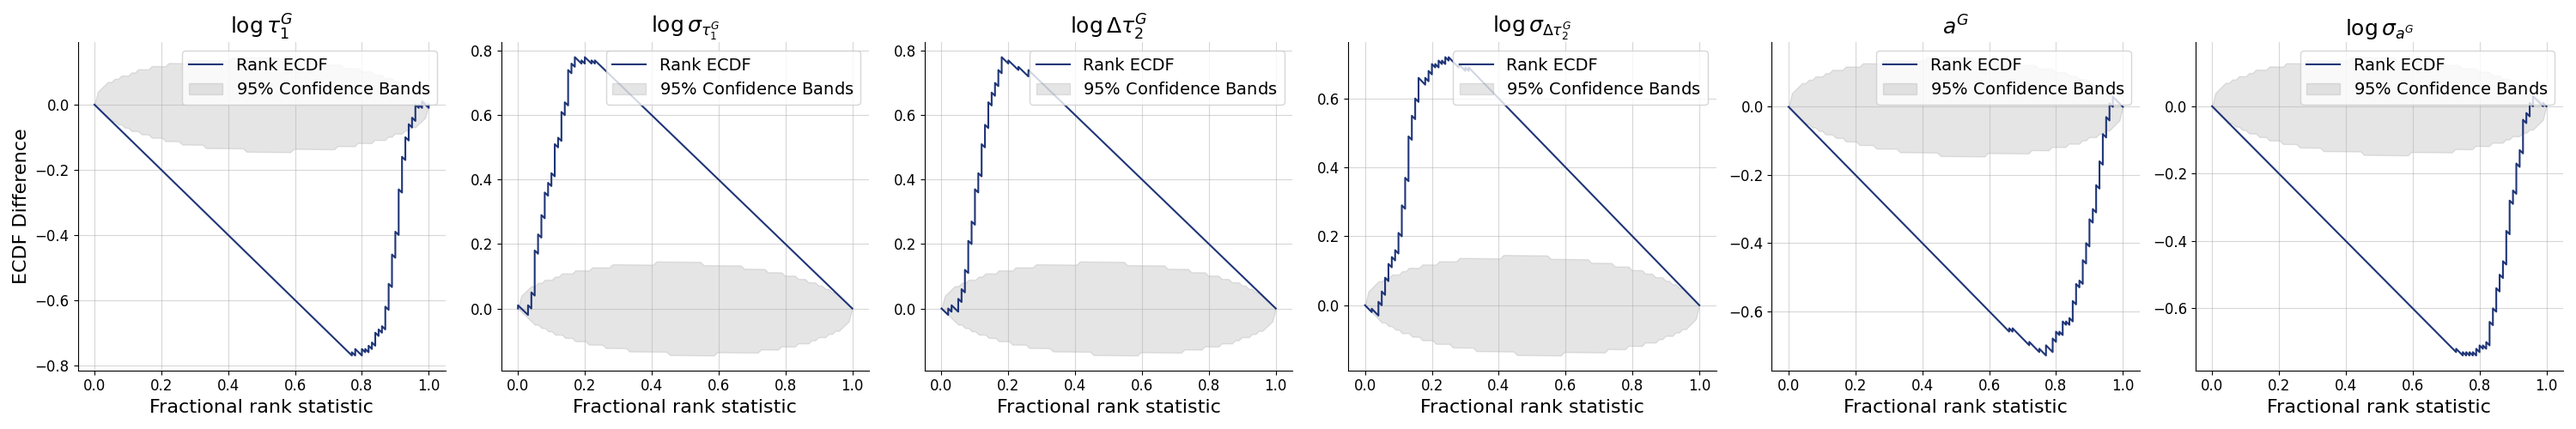
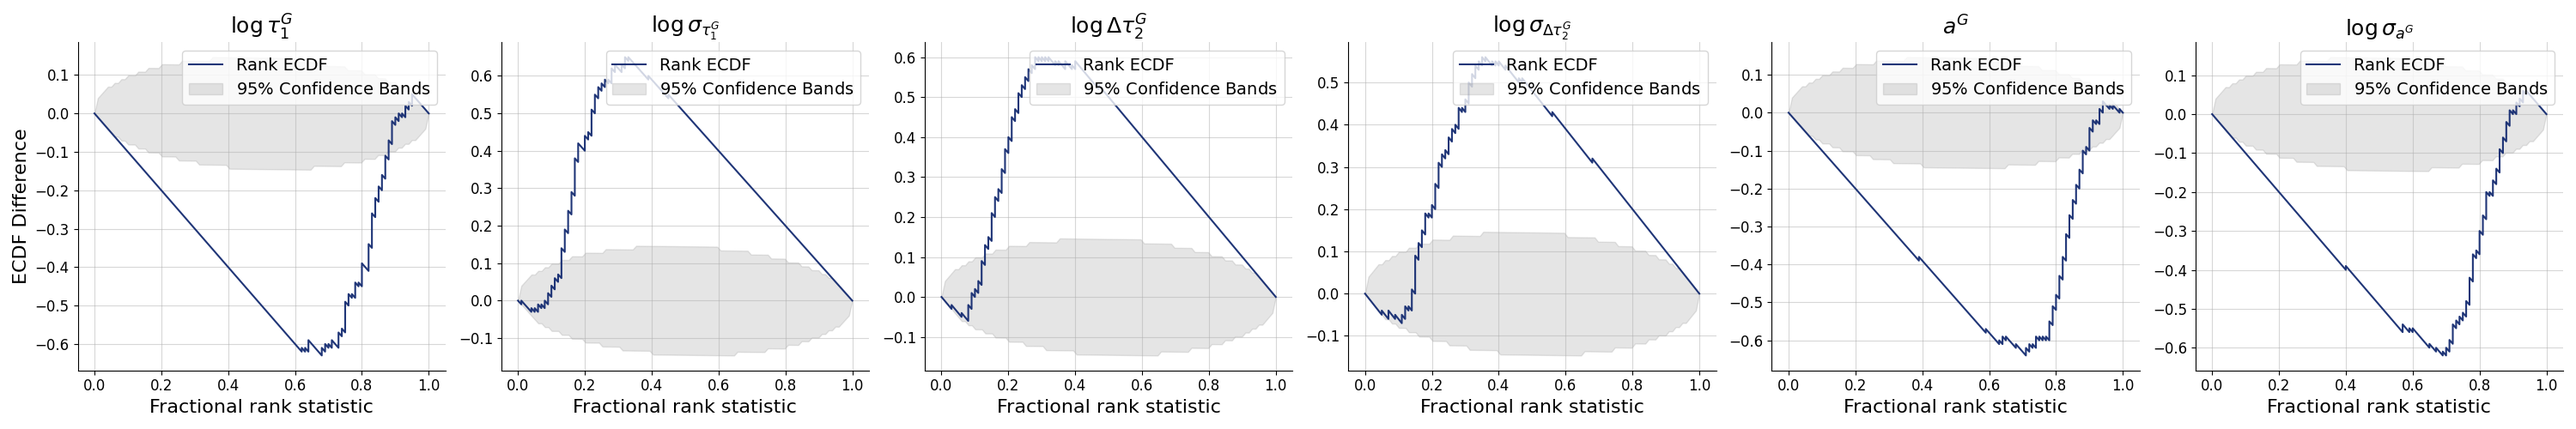
Update changes

diff --git a/fli score matching.py b/fli score matching.py
@@ -124,7 +124,7 @@ score_model.eval()
 #%% md
 # # Validation
 #%%
-n_local_samples = 16
+n_local_samples = 1
 valid_prior_global, valid_prior_local, valid_data = generate_synthetic_data(prior=prior, n_data=100,
                                                                             n_local_samples=n_local_samples,
                                                                             random_seed=0)
